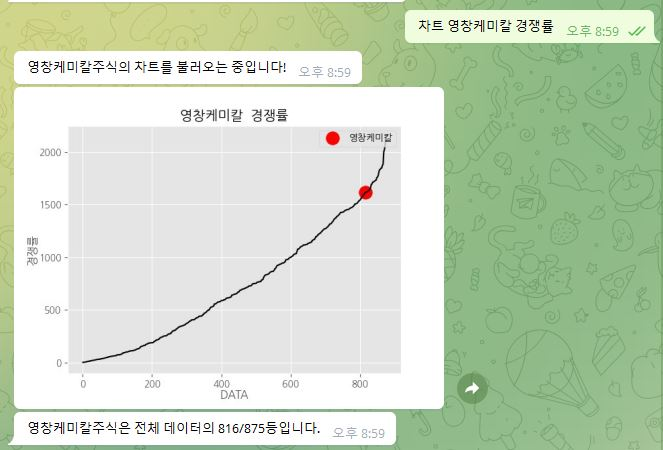
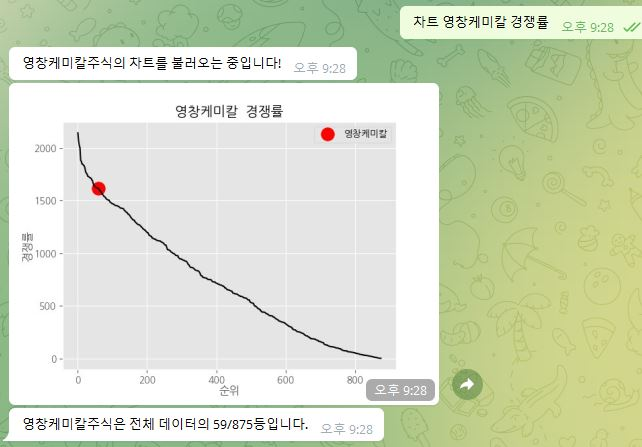
2022-07-28 그래프완성

diff --git a/main.py b/main.py
@@ -58,19 +58,19 @@ def get_graph(cor_name,cor_shape):
     df = pd.DataFrame(db.inform.find({},{'_id':False}))	# 모든 데이터 조회
     df=df.dropna()
     
-    df['순위']=df[cor_shape].rank(method='min',ascending=True)
-    df=df.sort_values(by=[cor_shape],ascending=False)
+    df['순위']=df[cor_shape].rank(method='min',ascending=False)
+    df=df.sort_values(by=[cor_shape])
     
     plt.plot(df['순위'],df[cor_shape],color='black')
         
-    x=df.loc[df['기업명']=='영창케미칼']['순위'].unique()
-    y=df.loc[df['기업명']=='영창케미칼']['경쟁률'].unique()
+    x=df.loc[df['기업명']==cor_name]['순위'].unique()
+    y=df.loc[df['기업명']==cor_name]['경쟁률'].unique()
         
     plt.scatter(x,y,color='r',s=200,label=cor_name) 
     
     
     plt.title(cor_name +"  "+ cor_shape)
-    plt.xlabel('DATA',labelpad=1)
+    plt.xlabel('순위',labelpad=1)
     plt.ylabel(cor_shape,labelpad=1)  
       
     plt.legend(loc="upper right")
@@ -108,6 +108,7 @@ def handler(update, context):
         bot.send_message(chat_id=update.effective_chat.id, text=f"{cor_name}주식의 차트를 불러오는 중입니다!")
         plt.clf()
         buf,rank,rank_sum = get_graph(cor_name,cor_shape)
+        
         bot.send_photo(chat_id =update.effective_chat.id,photo=buf)
         bot.send_message(chat_id=update.effective_chat.id, text=f"{cor_name}주식은 전체 데이터의 {rank}/{rank_sum}등입니다.")
         
